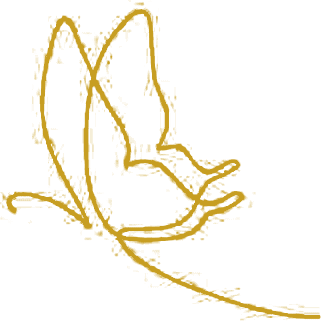
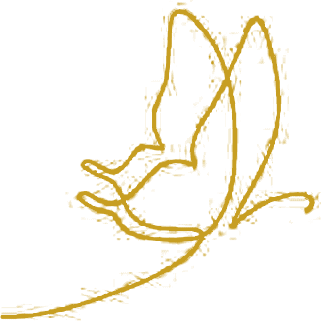
fix(footer): reverse butterfly flight direction to right and match stroke color and opacity with wordmark

Changed region(s): [[0.0, 0.0, 1.0, 0.9969]]

diff --git a/src/components/layout/footer-signature.tsx b/src/components/layout/footer-signature.tsx
@@ -15,7 +15,7 @@ export function FooterSignature() {
           <p
             className="font-display uppercase tracking-[0.08em] sm:tracking-[0.1em] text-transparent leading-none select-none text-[clamp(2.2rem,8.5vw,7.2rem)] font-normal pointer-events-none"
             style={{
-              WebkitTextStroke: '1px rgba(199, 158, 34, 0.22)',
+              WebkitTextStroke: '1px rgba(199, 158, 34, 0.35)',
             }}
             aria-hidden="true"
           >
@@ -25,7 +25,7 @@ export function FooterSignature() {
 
           {/* Gold Butterfly Line Art Decoration anchored right at the end of wordmark */}
           <div
-            className="pointer-events-none select-none absolute -right-4 sm:-right-8 lg:-right-12 bottom-0 sm:bottom-1 w-12 sm:w-16 lg:w-20 opacity-80 z-10"
+            className="pointer-events-none select-none absolute -right-4 sm:-right-8 lg:-right-12 bottom-0 sm:bottom-1 w-12 sm:w-16 lg:w-20 opacity-35 z-10"
             aria-hidden="true"
           >
             <Image
@@ -33,7 +33,7 @@ export function FooterSignature() {
               alt=""
               width={88}
               height={88}
-              className="w-full h-auto object-contain filter drop-shadow-[0_2px_12px_rgba(199,158,34,0.25)]"
+              className="w-full h-auto object-contain"
               priority={false}
             />
           </div>
